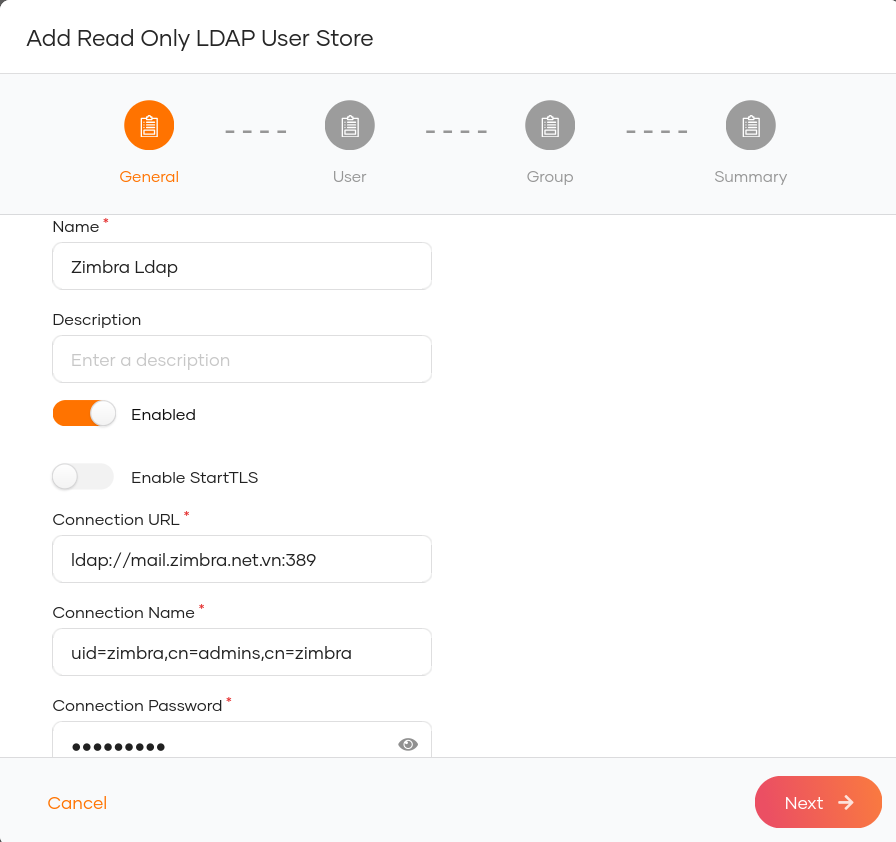
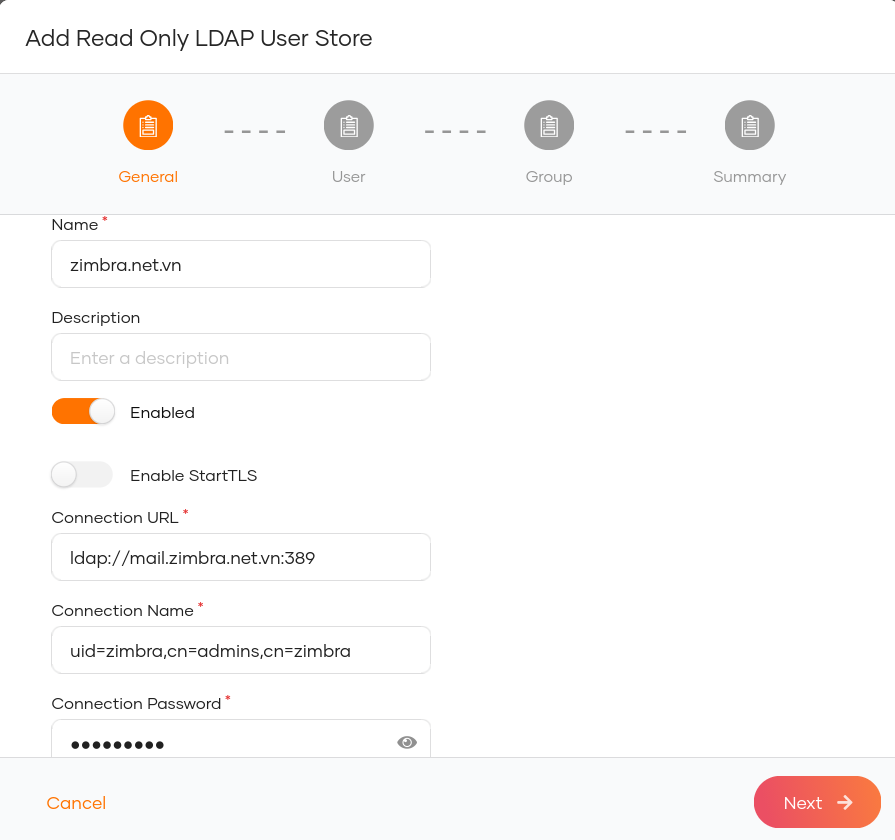
WIP

diff --git a/docs/wso2-is.md b/docs/wso2-is.md
@@ -109,17 +109,14 @@ keytool -import -alias your-zimbra-hostname -file /path/to/zimbra.pem -keystore 
 #### Config SAML service provider
 * Sign in to WSO2 Identity Server Management Console as an admin by visiting url `https://your-id-server-hostname:9443` from your web browser.
 * On the Main menu, click **Applications > New Application**, choose **Traditional Web Application**
-* Click on **Edit** link that corresponds to the service provider for Zimbra Mail Server
-* On **Inbound Authentication Configuration -> SAML2 Web SSO Configuration**, click **Configure**
-* Choose **Metadata File Configuration**, upload service provider metadata file (`metadata.xml`).
-  Click **Upload** to register new SAML srvice provider
-* On **Inbound Authentication Configuration -> SAML2 Web SSO Configuration**, click **Edit**
-* Fill **NameID format** with `urn:oasis:names:tc:SAML:1.1:nameid-format:emailAddress`
-* Check **Enable Response Signing** and **Enable Single Logout**
-* Fill **SLO Response URL** and **SLO Request URL** with `https://your-zimbra-hostname/service/extension/saml/callback?client_name=SAML2Client&logoutendpoint=true`
-* Check **Enable Attribute Profile** and **Include Attributes in the Response Always**
-* Click **Update** to update SAML service provider configuration
-* Download SAML service provider metadata at `https://your-zimbra-hostname/service/extension/saml/metadata` to `metadata.xml`.
+* Fill in **Traditional Web Application** form like that
+![create-saml-application](create-saml-application.png)
+* Click **Create** to create
+* Click on **Protocol** tab, tick **Sign SAML responses**, choose **NameID format** with
+ `urn:oasis:names:tc:SAML:1.1:nameid-format:emailAddress`,
+ choose **Logout method** with `Front Channel HTTP Post`,
+ check **Enable Attribute Profile**
+* Click **Update** to update SAML application configuration
 
 #### Testing
 * Testing service provider metadata by visiting url `https://your-zimbra-hostname/service/extension/saml/metadata` from your web browser.
